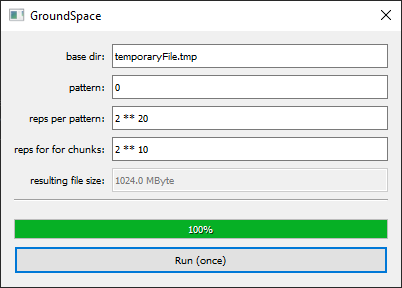
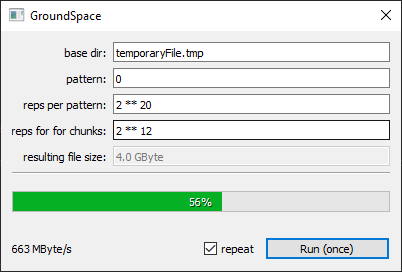
groundSpace: updated documentation

diff --git a/GroundSpace/groundSpace.py b/GroundSpace/groundSpace.py
@@ -5,8 +5,6 @@
 
 # todo:
 # * feature: give option to write until disk full or "leave 100 MiB free"? - catch the diskqtfull-exception
-# * cosmetic: there is too much vertical height in the dialog (fix the spacer)
-# * feature: show maybe the current throughput (in the last second)
 
 # ------------------------------------------------------------------------------
 
@@ -15,7 +13,7 @@
 #
 # Samsung SSD 960 EVO 500GB achieves just 300 MB/s continuous; drops after 8 GiB
 # sk hynix BC501 256 GB: 160 MB/s
-# Micron 2200S NVMe 512GB: 300 MB/s continuously, just drops after 40 GiB!
+# Micron 2200S NVMe 512GB: 640 MB/s continuously, just drops after 40 GiB! (maximum speed achieved at 4 GiByte chunks)
 
 # ------------------------------------------------------------------------------
 

diff --git a/GroundSpace/README.md b/GroundSpace/README.md
@@ -14,12 +14,14 @@ $ pip install PyQt5
 * this is how the ui looks:  
 ![screenshot of the current UI state](ui_currentState.png)
 * set parameters for pattern, repetitions and click "Run"
-* watch the progressbar moving to 100% :'D
+* watch the progressbar move to 100% :'D
 * if the "repeat"-checkbox is checked, then the file-writing will be repeated (until unchecked or the disk is full)
+* after each cycle the throughput (speed) will be updated in the bottom-left
 
 ## contact the author
 mail@marcelpetrick.it
 
 ## planned ideas
-* display the current writing-speed
 * fix the bug that the run-button is not disabled after starting the process (multiple runs happens ..)
+* maybe add an option to abort the writing
+* add option to delete the file at shutdown of the app
